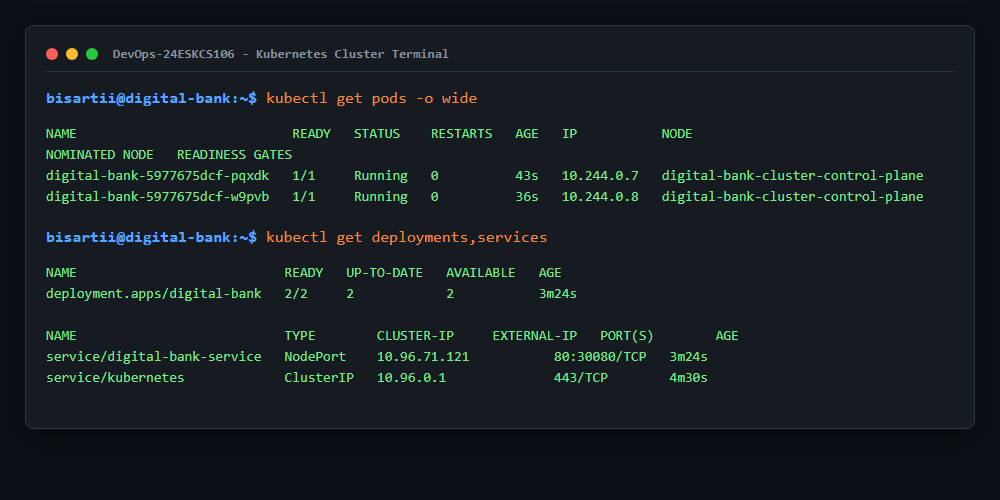
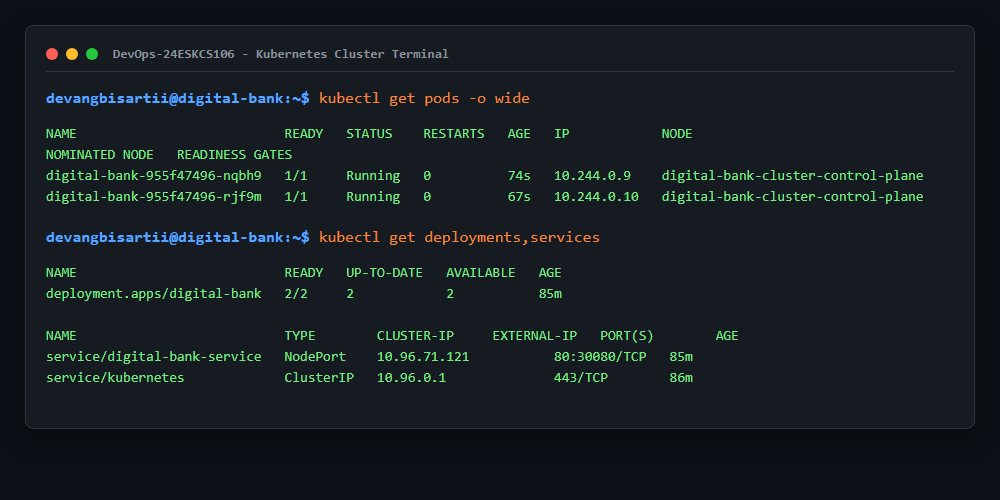
build: update image references to use Docker Hub username devangbisartii

diff --git a/README.md b/README.md
@@ -65,16 +65,16 @@ curl -i http://localhost:8080/health
 
 ## Container Registry
 
-- **Repository**: `bisartii/digital-bank`
+- **Repository**: `devangbisartii/digital-bank`
 - **Tags**: `latest`, `<git-commit-sha>`
 
 ### Publishing to Docker Hub
 ```bash
 # Authenticate to Docker Hub
-docker login
+docker login -u devangbisartii
 
 # Push the verified image
-docker push bisartii/digital-bank:latest
+docker push devangbisartii/digital-bank:latest
 ```
 
 ## Monitoring Stack (M6)
@@ -100,7 +100,7 @@ Kubernetes manifests are located in `k8s/`:
 kind create cluster --name digital-bank-cluster
 
 # Load image into cluster nodes
-kind load docker-image bisartii/digital-bank:latest --name digital-bank-cluster
+kind load docker-image devangbisartii/digital-bank:latest --name digital-bank-cluster
 
 # Apply manifests
 kubectl apply -f k8s/
